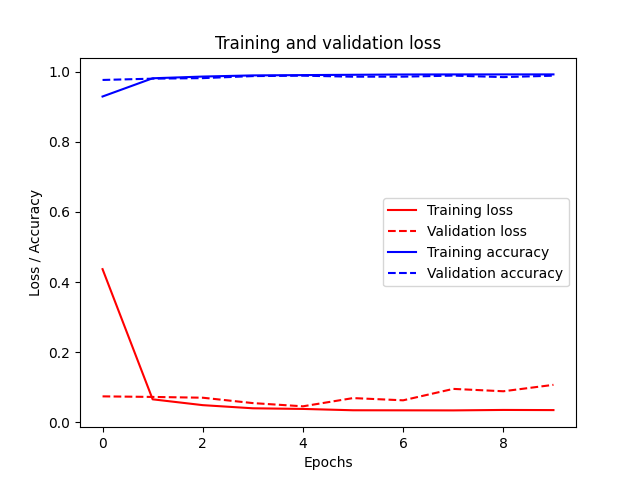
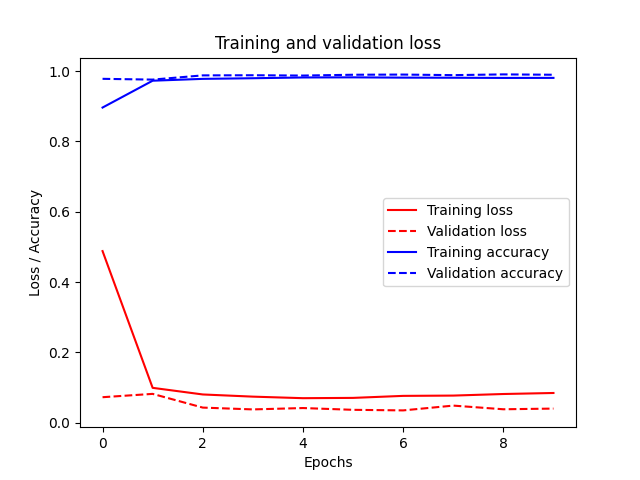
added a slighty better model including dropouts

Changed region(s): [[0.1875, 0.75, 0.875, 0.875], [0.1562, 0.1562, 0.875, 0.2188], [0.1562, 0.5312, 0.2188, 0.75]]

diff --git a/Exercise 4/Exercise 4.py b/Exercise 4/Exercise 4.py
@@ -19,19 +19,24 @@ train_labels = to_categorical(train_labels, num_classes)
 test_labels = to_categorical(test_labels, num_classes)
 
 print(train_data.shape)
-train_data = np.expand_dims(train_data, axis=-1) # or train_data.reshape((60000,28,28,1))
-test_data = np.expand_dims(test_data, axis=-1) # or test_data.reshape((10000,28,28,1))
+train_data = train_data.reshape((60000,28,28,1))
+test_data = test_data.reshape((10000,28,28,1))
 print(train_data.shape)
 
-model = Sequential()
-model.add(Conv2D(32, (3,3), activation='relu',input_shape=(28,28,1)))
-model.add(MaxPooling2D(2,2))
-model.add(Conv2D(64, (3,3), activation='relu'))
-model.add(MaxPooling2D(2,2))
-model.add(Conv2D(64, (3,3), activation='relu'))
+train_data = train_data.astype('float')
 
+model = Sequential()
+model.add(Conv2D(32, (3,3), activation='relu',input_shape=(28,28,1) , kernel_regularizer=regularizers.l2(0.001)))
+model.add(Dropout(0.25))
+model.add(MaxPooling2D(2,2))
+model.add(Conv2D(64, (3,3), activation='relu', kernel_regularizer=regularizers.l2(0.001)))
+model.add(Dropout(0.25))
+model.add(MaxPooling2D(2,2))
+model.add(Conv2D(64, (3,3), activation='relu', kernel_regularizer=regularizers.l2(0.001)))
+model.add(Dropout(0.25))
 model.add(Flatten())
-model.add(Dense(64, activation='relu'))
+
+model.add(Dense(64, activation='relu', kernel_regularizer=regularizers.l2(0.001)))
 model.add(Dense(10, activation='softmax'))
 
 model.compile(optimizer='rmsprop', loss='categorical_crossentropy', metrics=['accuracy'])
@@ -41,8 +46,8 @@ print('Model accuracy: ' + str(model.evaluate(test_data, test_labels)[1]))
 
 plt.plot(range(EPOCHS), history.history['loss'], '-', color='r', label='Training loss')
 plt.plot(range(EPOCHS), history.history['val_loss'], '--', color='r', label='Validation loss')
-plt.plot(range(EPOCHS), history.history['acc'], '-', color='b', label='Training accuracy')
-plt.plot(range(EPOCHS), history.history['val_acc'], '--', color='b', label='Validation accuracy')
+plt.plot(range(EPOCHS), history.history['accuracy'], '-', color='b', label='Training accuracy')
+plt.plot(range(EPOCHS), history.history['val_accuracy'], '--', color='b', label='Validation accuracy')
 plt.title('Training and validation loss')
 plt.xlabel('Epochs')
 plt.ylabel('Loss / Accuracy')
